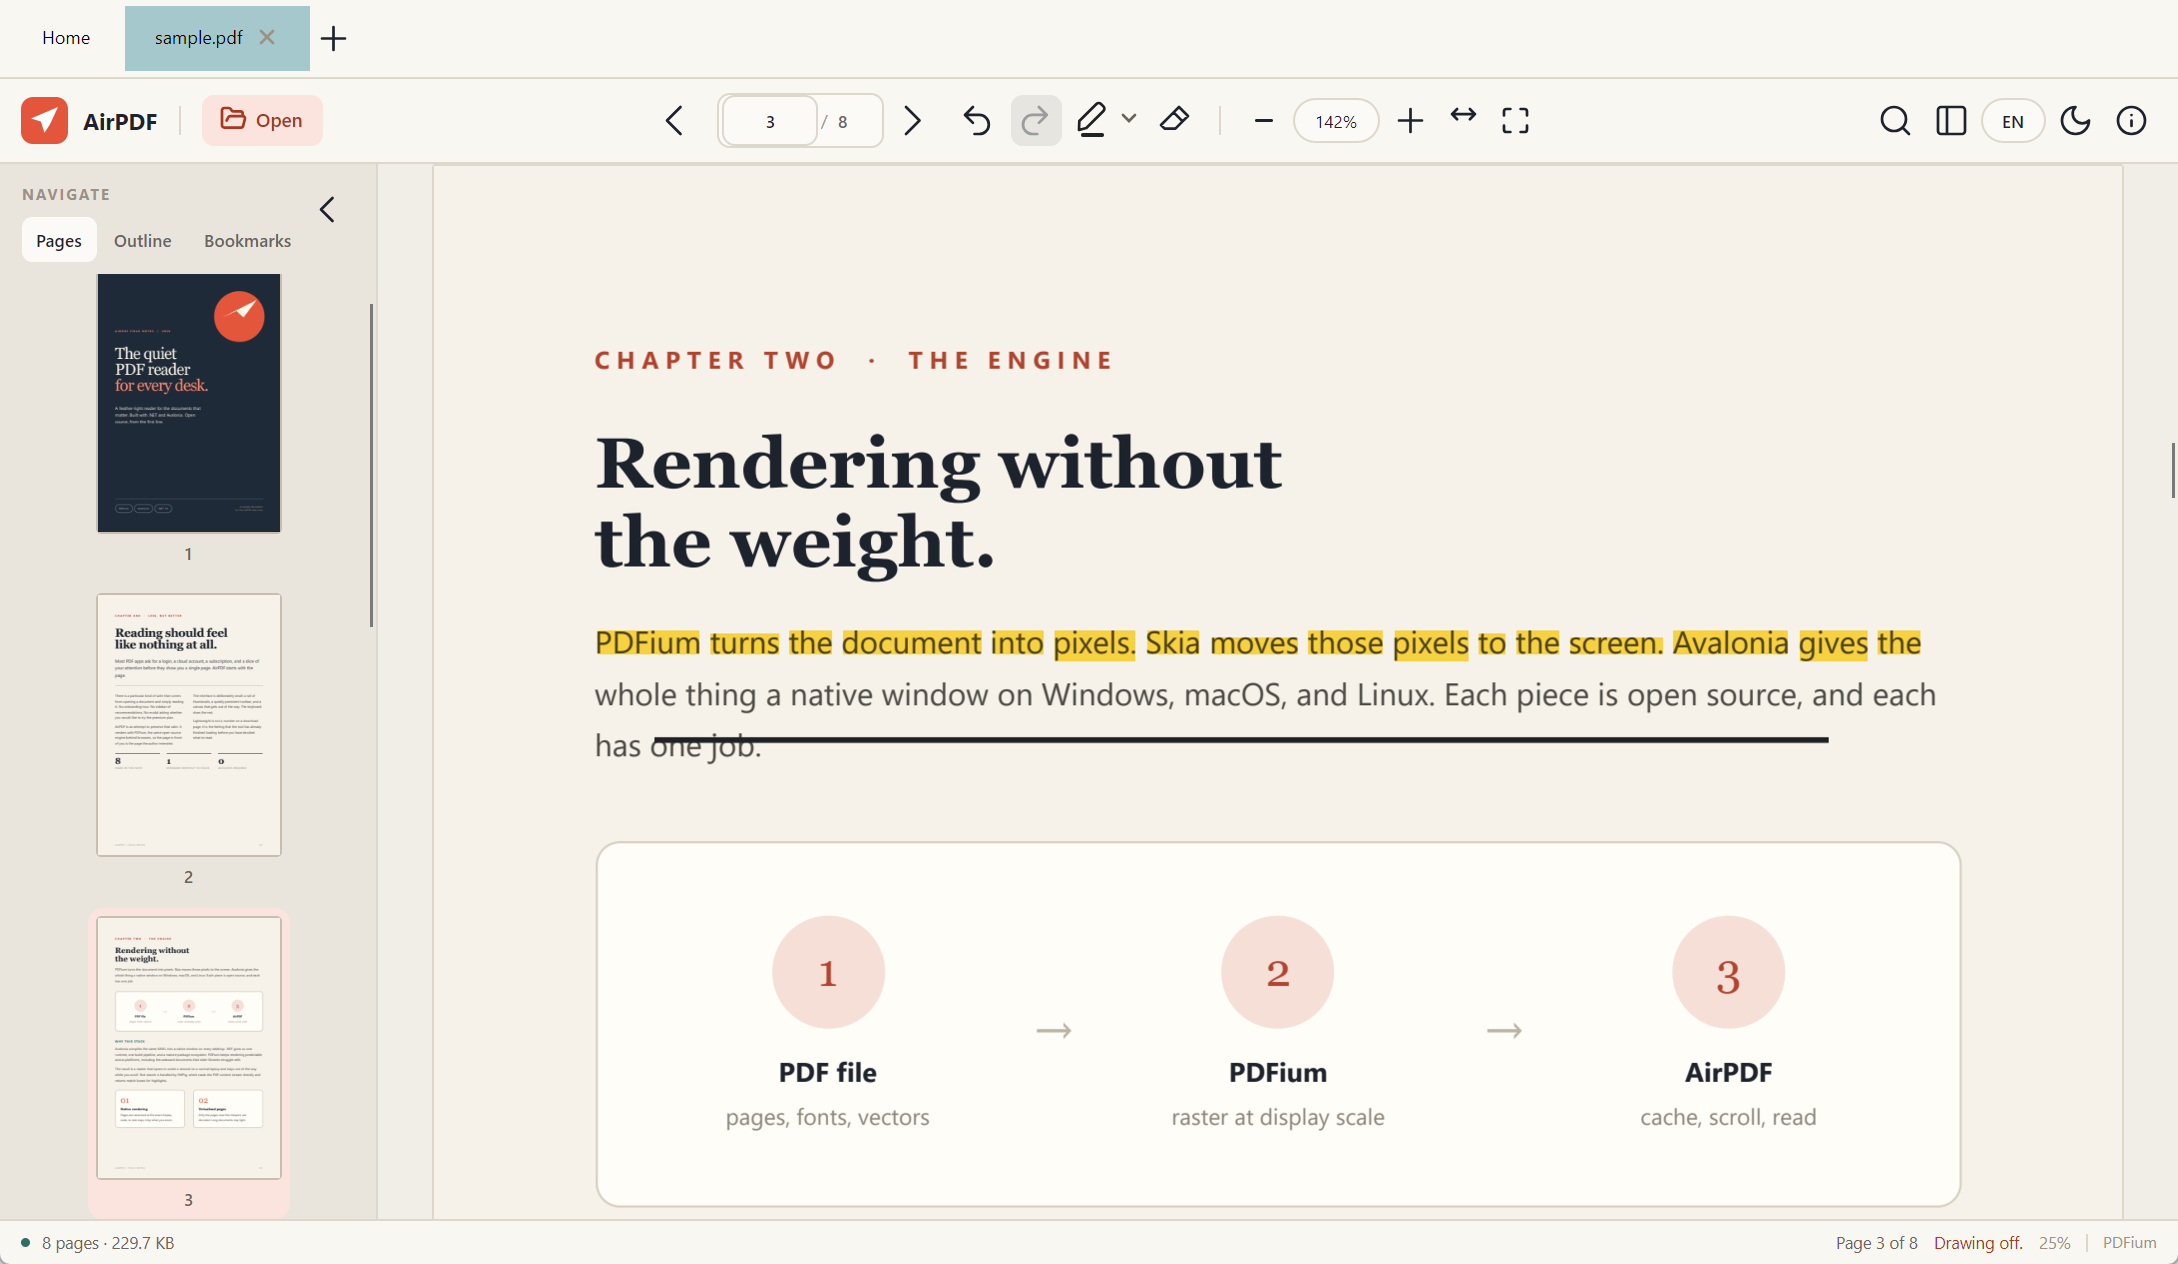
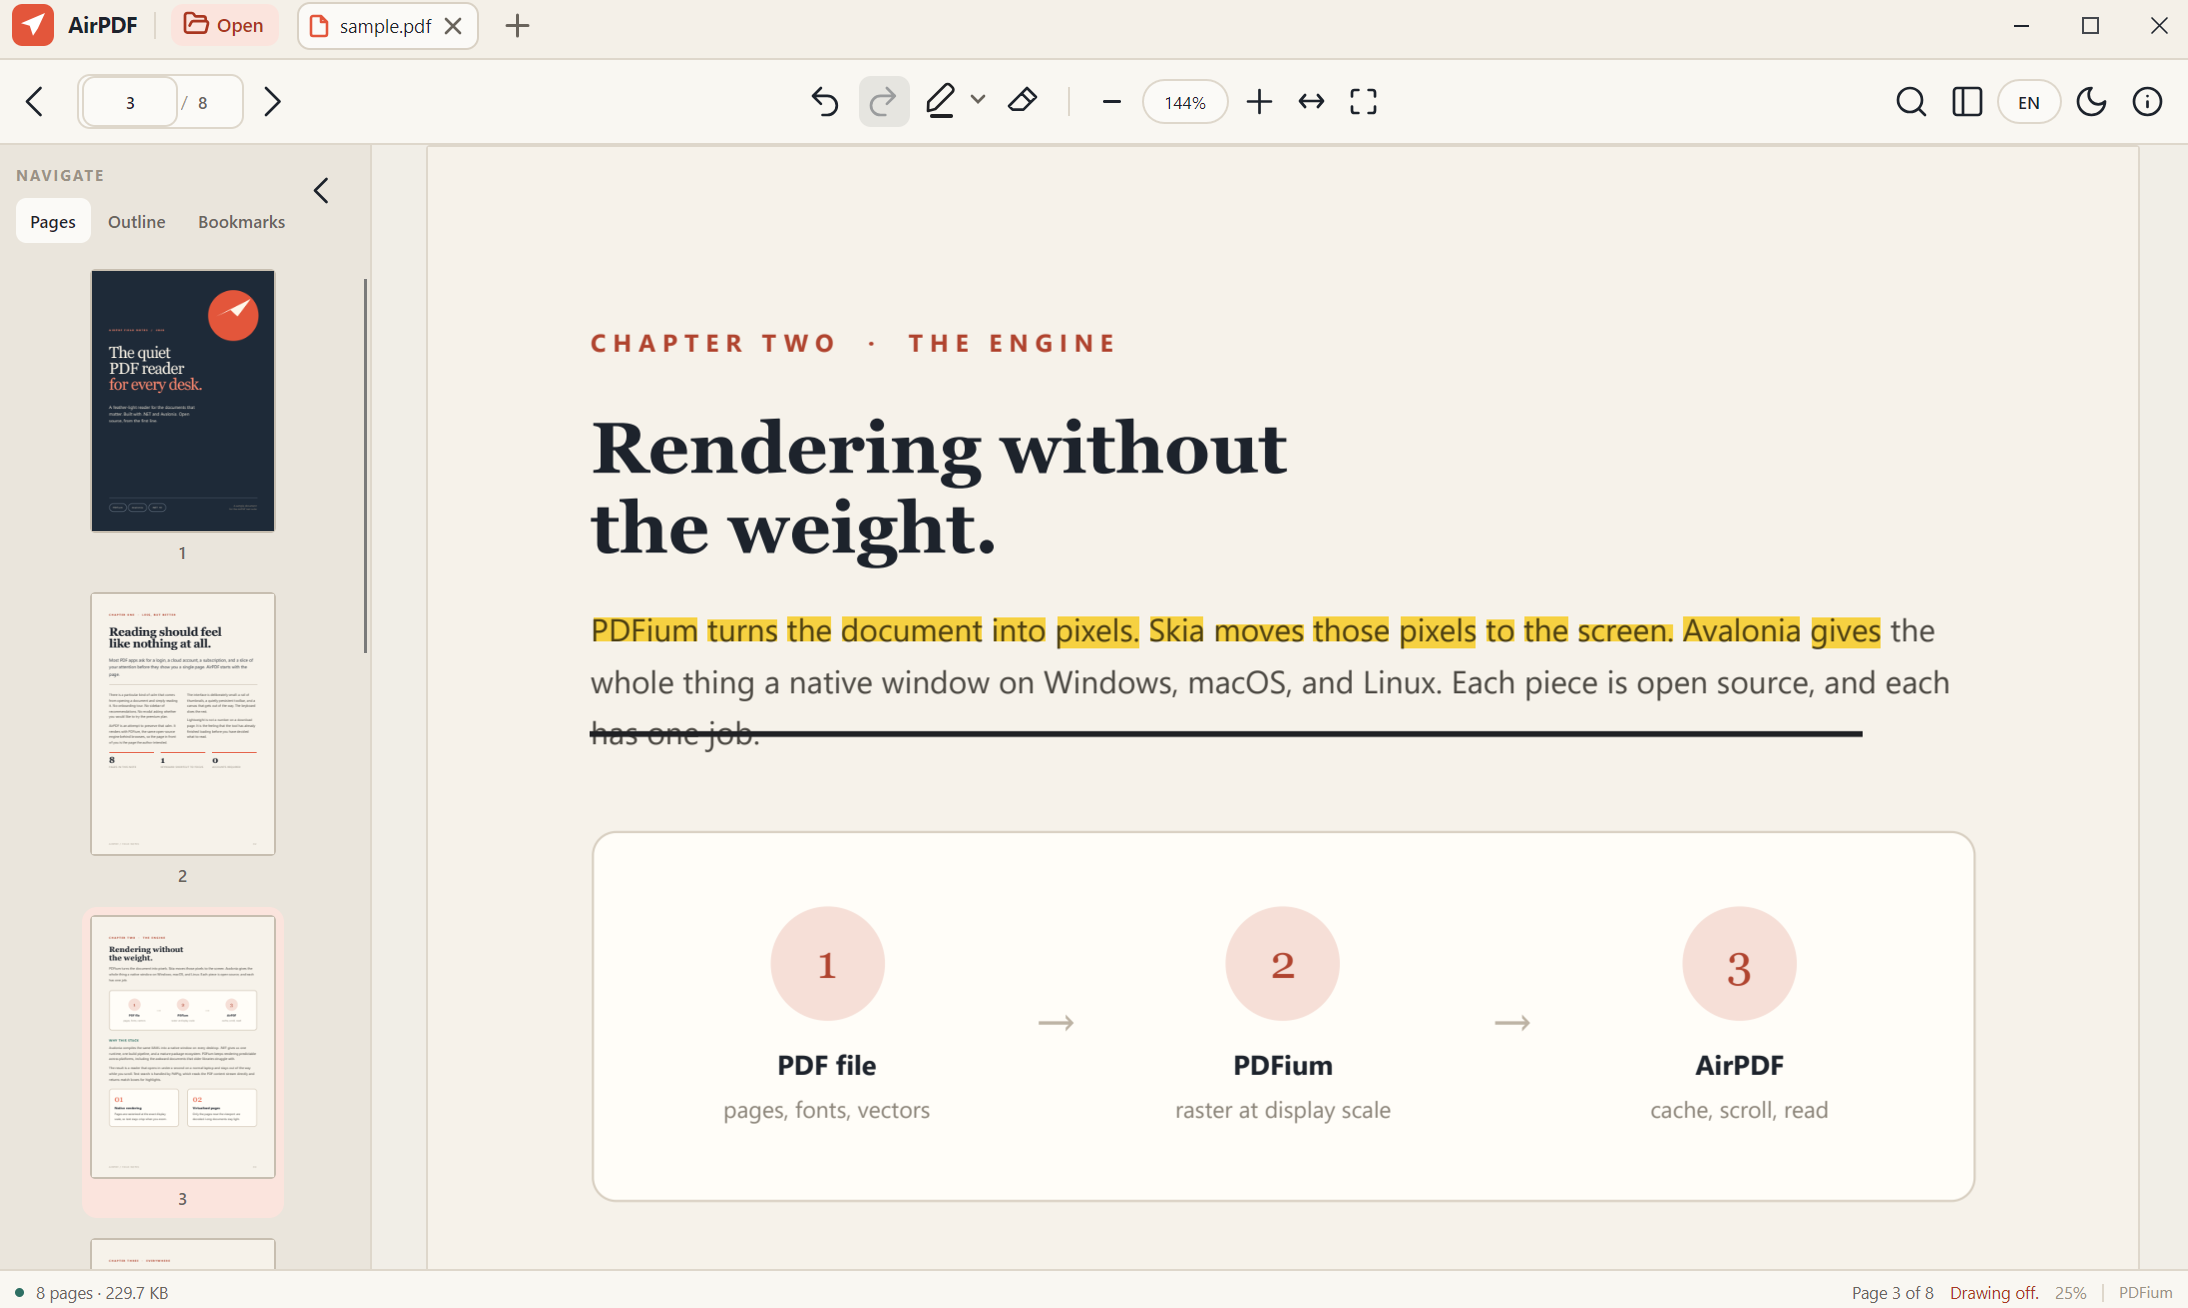
Refresh Store screenshots and copy for 0.6

diff --git a/docs/store/listing.md b/docs/store/listing.md
@@ -118,47 +118,46 @@ Limit is about 1500 characters. Both languages below fit.
 English:
 
 ```
-AirPDF can annotate now, not just read.
+AirPDF 0.6 is a faster, tidier reader.
 
-• Ink: press Ctrl+Shift+K or the pen button and draw on the page. Each stroke is a
-  real PDF ink annotation, so it travels with the file.
-• Sticky notes: right-click a page and choose Add note. Click the note later to read
-  it again.
-• Eraser: the button beside the pen rubs out whatever markup the pointer passes over,
-  and one drag is one undo step.
-• Remove annotation in the page menu takes away a highlight, a stroke, or a note.
-• A colour palette for markup: the highlight colour and the ink colour are chosen
-  separately, and the pen previews the stroke thickness.
-• Undo and redo cover every markup change, keeping the last 100 edits.
-• Ctrl+S writes the annotations into the PDF itself.
-
-Also in this version: opening a file that is already open focuses its tab instead of
-opening a second session over the same file, and Esc now leaves the eraser as well as
-the pen.
+• Page rendering now runs through one priority queue: the page you are looking at is
+  decoded before thumbnails, and the reader stays responsive on very large documents.
+• Battery and memory: page bitmaps are capped, thumbnails release their images once
+  they leave the rail, and closing a tab frees its PDF engine session off the UI thread.
+• Search reports progress while it scans and says when the result list was capped.
+• Zoom keeps your place inside the page instead of re-centring it on every step.
+• Tabs can be dragged to reorder, with a smooth slide instead of a jump, and the strip
+  scrolls horizontally when there are more tabs than fit.
+• A new workspace bar puts the brand, Open, and your document tabs on one line, with
+  Windows 11 Snap Layouts on the maximise button.
+• A tray icon keeps AirPDF reachable while it is minimised.
+• Closing a tab with unsaved highlights, ink, or notes asks first: Save, Discard, or
+  Cancel. If saving cannot replace the original file, the saved copy is kept and opened
+  so nothing is lost.
 ```
 
 简体中文：
 
 ```
-这一版 AirPDF 不只能读,也能批注了。
+AirPDF 0.6 更快、更整齐。
 
-• 墨迹:按 Ctrl+Shift+K 或点画笔按钮即可在页面上画,每条笔迹都是真正的 PDF 墨迹批注,
-  随文件保存。
-• 便签:右键页面选"添加便签",之后点击便签就能再看内容。
-• 橡皮擦:画笔旁边的按钮,擦掉指针经过的标记,一次拖动算一步撤销。
-• 页面菜单里的"移除批注"可以删掉高亮、笔迹或便签。
-• 批注颜色面板:高亮色和墨迹色分别选择,画笔会预览笔迹粗细。
-• 撤销重做覆盖所有批注修改,保留最近 100 步。
-• Ctrl+S 把批注写入 PDF 本身。
-
-其他改进:打开已打开的文件会聚焦它所在的标签页,不再在同一文件上开第二个会话;Esc 现在也能
-退出橡皮擦模式。
+• 页面渲染改走单一优先级队列:正在看的页面先于缩略图解码,超大文档下界面依然跟手。
+• 更省内存:页面位图有上限,缩略图离开侧栏就释放位图,关闭标签时在 UI 线程之外释放
+  PDF 引擎会话。
+• 搜索扫描时显示进度,结果超过上限会明确提示。
+• 缩放时保持页内位置,不再每步重新居中。
+• 标签可拖动排序,带平滑滑动而不是瞬移;标签超过一屏时横向滚动。
+• 新的工作区栏把品牌、打开按钮和文档标签放在同一行,最大化按钮支持 Windows 11 吸附布局。
+• 最小化后可通过托盘图标回到应用。
+• 有未保存的高亮、墨迹或便签时关闭标签会先询问:保存、放弃或取消。若无法覆盖原文件,
+  保存的副本会被保留并打开,不会丢失。
 ```
 
 ## Screenshots
 
-Captured at 2178×1264 from the 0.5 build, English and light theme. The display runs
-at 150% scaling, so the pixels are real ones rather than an upscale.
+Captured at 2188×1308 from the 0.6 build, English and light theme. The display runs
+at 150% scaling, so the pixels are real ones rather than an upscale, and the rounded
+window corners are trimmed.
 
 | File | Caption (English) | Caption (简体中文) |
 | --- | --- | --- |
@@ -167,11 +166,14 @@ at 150% scaling, so the pixels are real ones rather than an upscale.
 | `screenshot-markup.png` | Highlight, ink, and the pen in the toolbar | 高亮、墨迹,以及工具栏上的画笔 |
 
 The markup shot shows a real highlight over a paragraph plus an ink underline drawn
-with the pen, with the status bar reading "Drawing off" after Esc.
+with the pen, with the status bar reading "Drawing off" after Esc. The welcome and
+reading shots show the 0.6 workspace bar with the brand, Open, and document tabs on
+one line.
 
 Recapture with `packaging/store/capture.ps1 -Scene welcome|reading|markup` after any
 UI change; the scenes drive the app by fractions of its client area, so they survive
-a different window size or DPI.
+a different window size or DPI. Seed the reading position to page 3 first, otherwise
+the document scenes open on the cover.
 
 ## Category and audience
 

diff --git a/docs/STORE_SUBMISSION.md b/docs/STORE_SUBMISSION.md
@@ -137,7 +137,7 @@ need filling in.
 | Item | Requirement | Status |
 | --- | --- | --- |
 | Description | Plain text, no placeholder links, must match what the app does | Ready: [store/listing.md](store/listing.md), English and Chinese |
-| Screenshots | At least one desktop screenshot, 1366×768 or larger, PNG | Ready: `docs/store/screenshot-*.png` at 2178×1264, captured from the 0.5 build including the annotation tools |
+| Screenshots | At least one desktop screenshot, 1366×768 or larger, PNG | Ready: `docs/store/screenshot-*.png` at 2188×1308, captured from the 0.6 build with the workspace bar and annotation tools |
 | Store logo | 300×300 PNG | Ready: `docs/store/logo-300.png` |
 | App icon | Provided by the package | Done |
 | Category | Books & reference | Decided in [store/listing.md](store/listing.md) |
